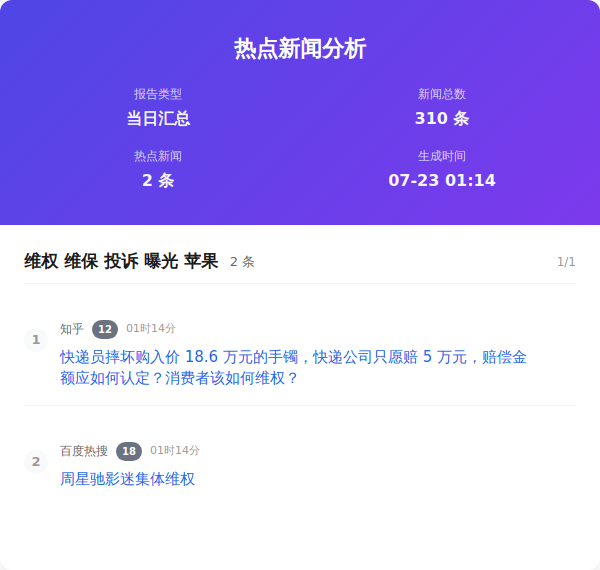
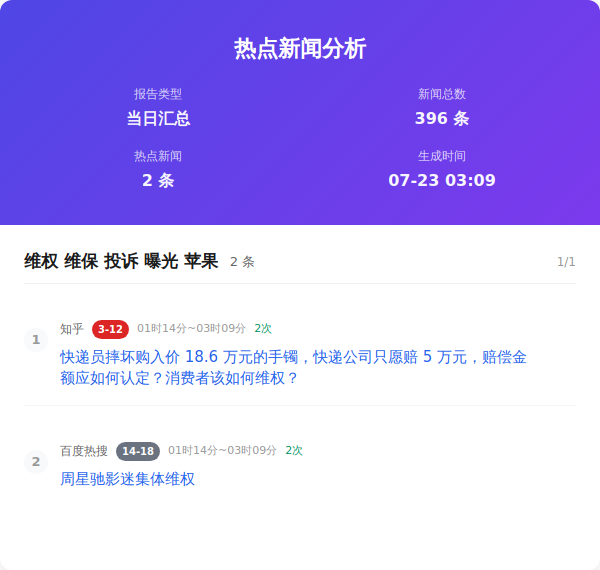
Auto update by GitHub Actions at Thu Jul 23 03:09:50 CST 2026

diff --git a/output/2026年07月23日/html/当日汇总.html b/output/2026年07月23日/html/当日汇总.html
@@ -357,7 +357,7 @@
                     </div>
                     <div class="info-item">
                         <span class="info-label">新闻总数</span>
-                        <span class="info-value">310 条</span>
+                        <span class="info-value">396 条</span>
                     </div>
                     <div class="info-item">
                         <span class="info-label">热点新闻</span>
@@ -365,7 +365,7 @@
                     </div>
                     <div class="info-item">
                         <span class="info-label">生成时间</span>
-                        <span class="info-value">07-23 01:14</span>
+                        <span class="info-value">07-23 03:09</span>
                     </div>
                 </div>
             </div>
@@ -383,7 +383,7 @@
                         <div class="news-number">1</div>
                         <div class="news-content">
                             <div class="news-header">
-                                <span class="source-name">知乎</span><span class="rank-num ">12</span><span class="time-info">01时14分</span>
+                                <span class="source-name">知乎</span><span class="rank-num top">3-12</span><span class="time-info">01时14分~03时09分</span><span class="count-info">2次</span>
                             </div>
                             <div class="news-title"><a href="https://www.zhihu.com/question/2060880883452793625" target="_blank" class="news-link">快递员摔坏购入价 18.6 万元的手镯，快递公司只愿赔 5 万元，赔偿金额应如何认定？消费者该如何维权？</a>
                             </div>
@@ -393,7 +393,7 @@
                         <div class="news-number">2</div>
                         <div class="news-content">
                             <div class="news-header">
-                                <span class="source-name">百度热搜</span><span class="rank-num ">18</span><span class="time-info">01时14分</span>
+                                <span class="source-name">百度热搜</span><span class="rank-num ">14-18</span><span class="time-info">01时14分~03时09分</span><span class="count-info">2次</span>
                             </div>
                             <div class="news-title"><a href="https://www.baidu.com/s?wd=%E5%91%A8%E6%98%9F%E9%A9%B0%E5%BD%B1%E8%BF%B7%E9%9B%86%E4%BD%93%E7%BB%B4%E6%9D%83" target="_blank" class="news-link">周星驰影迷集体维权</a>
                             </div>